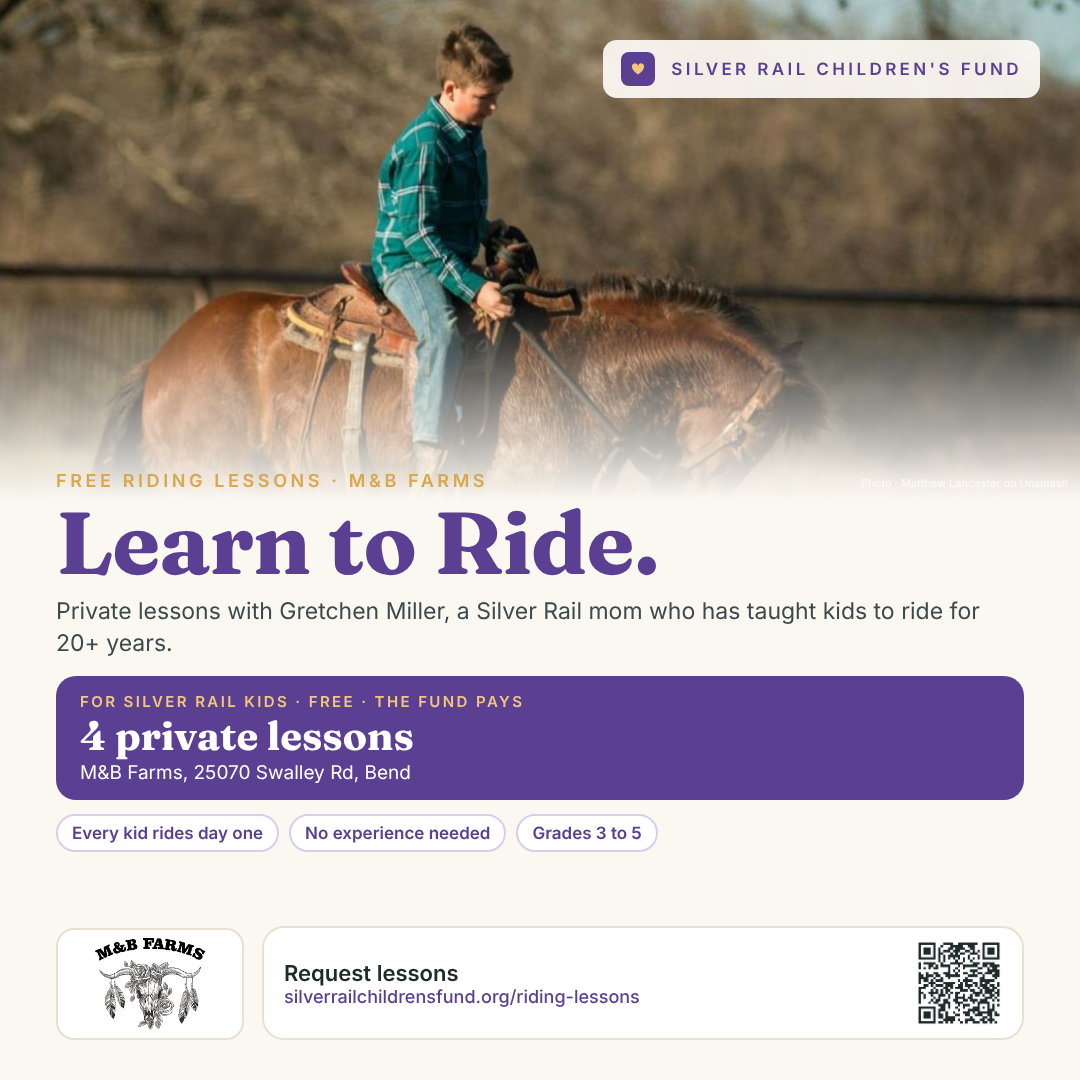
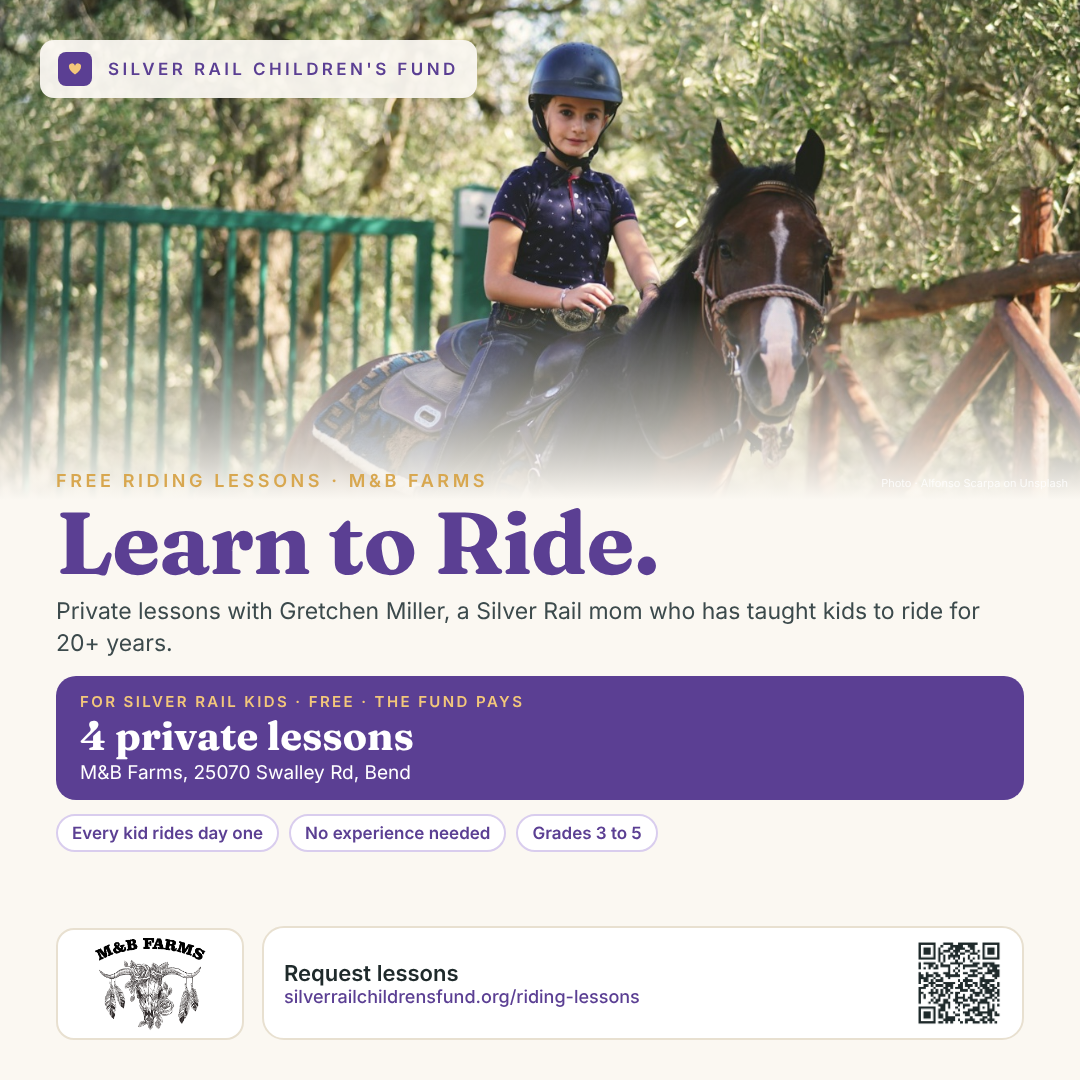
Riding lessons: helmeted rider photo
Claude-Session: https://claude.ai/code/session_01H4F1UGVh7mP2zmvnm3WNaY

diff --git a/riding-lessons.html b/riding-lessons.html
@@ -187,8 +187,8 @@ footer.sf .sf-legal a{color:var(--ink-2)}
 
 <section id="details">
   <div class="wrap">
-    <div class="photo"><img src="assets/riding-lessons-photo.jpg" alt="A boy in a plaid shirt riding a brown horse in a ranch arena"></div>
-    <p class="credit">Photo: Matthew Lancaster on Unsplash</p>
+    <div class="photo"><img src="assets/riding-lessons-photo.jpg" alt="A smiling girl in a riding helmet sitting on a bay horse"></div>
+    <p class="credit">Photo: Alfonso Scarpa on Unsplash</p>
     <h2>Real riding. Real confidence.</h2>
     <p style="max-width:760px">Every child gets on a horse from the very first lesson. Kids learn to groom, saddle and bridle their horse, pick its feet, and read how it is feeling, then build real riding skills one lesson at a time. No experience needed. Lessons are best for 3rd to 5th graders, and younger kids are welcome too.</p>
     <div class="sess" style="max-width:860px;grid-template-columns:repeat(auto-fit,minmax(240px,1fr))">
